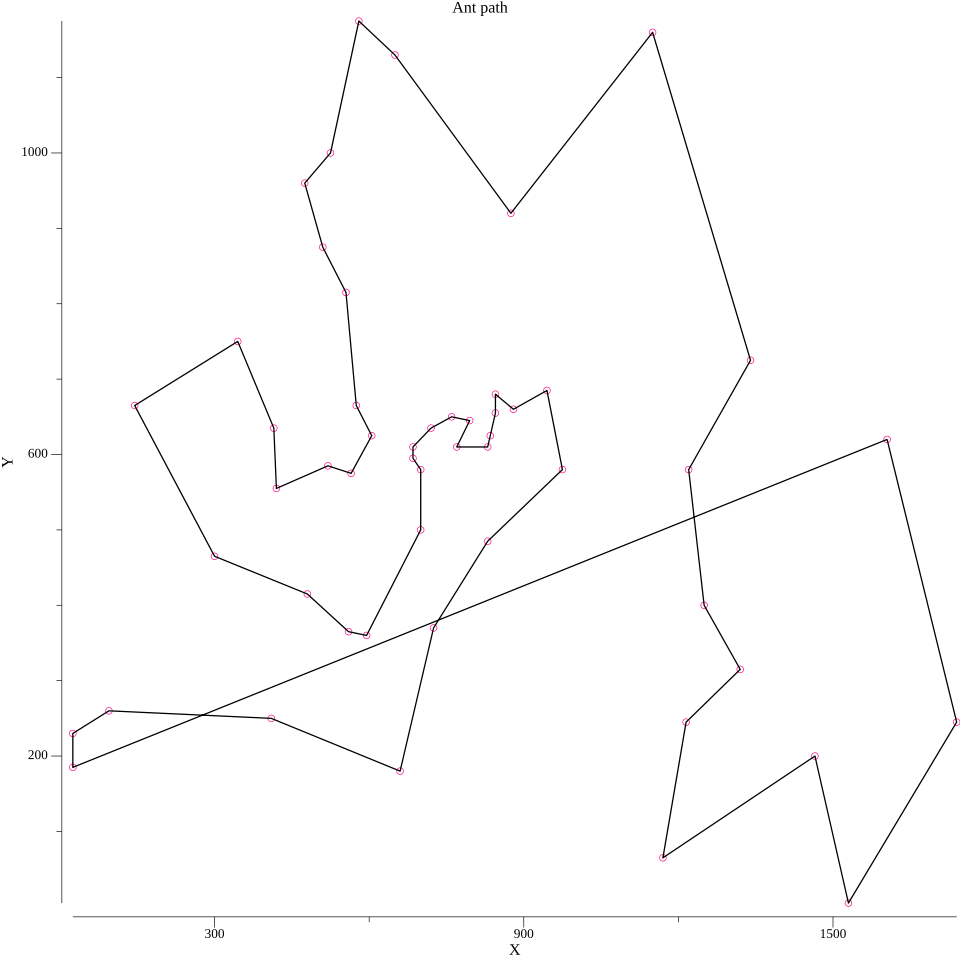
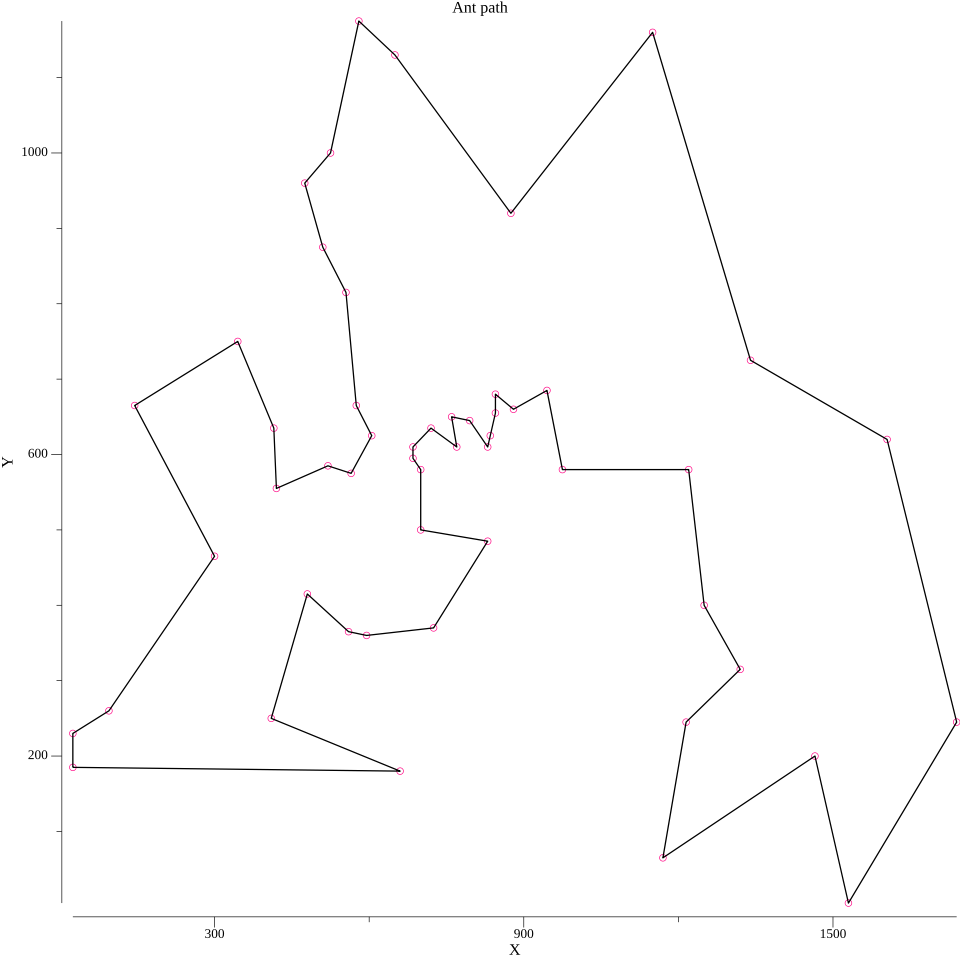
add concurency of ants

diff --git a/aco/aco.go b/aco/aco.go
@@ -4,6 +4,7 @@ import (
 	"log"
 	"math"
 	"math/rand"
+	"sync"
 
 	"github.com/EP-coode/ACO-alghoritm/helpers"
 )
@@ -34,18 +35,20 @@ func (a *Aco) RunAco(iterations int) {
 	l := log.Default()
 
 	for i := 0; i < iterations; i++ {
+		var antWg sync.WaitGroup
+		antWg.Add(a.params.AntsPopulationSize)
+
 		ants := make([]Ant, a.params.AntsPopulationSize)
 
-		// make ants colony run
 		for j := 0; j < a.params.AntsPopulationSize; j++ {
-			startingCity := rand.Intn(len(*a.enviroment.cities))
-			ants[j] = *a.antTraverse(startingCity)
-
-			if a.bestAnt == nil || ants[j].Distance < a.bestAnt.Distance {
-				a.bestAnt = &ants[j]
-				l.Printf("New best Ant { distance: %v }", a.bestAnt.Distance)
-			}
+			go func(j int) {
+				startIndex := rand.Intn(len(*a.enviroment.cities))
+				ants[j] = *a.antTraverse(startIndex)
+				antWg.Done()
+			}(j)
 		}
+
+		antWg.Wait()
 
 		// update pheromone
 		for _, ant := range ants {
@@ -56,6 +59,14 @@ func (a *Aco) RunAco(iterations int) {
 				city2 := ant.Path[k]
 				currentPheromone, _ := a.enviroment.cityPheromones.GetEdge(city1, city2)
 				a.enviroment.cityPheromones.SetEdge(city1, city2, *currentPheromone+pheromoneDelta)
+			}
+
+			if a.bestAnt == nil || ant.Distance < a.bestAnt.Distance {
+				a.bestAnt = &Ant{
+					Path:     ant.Path,
+					Distance: ant.Distance,
+				}
+				l.Printf("New best Ant { distance: %v }", a.bestAnt.Distance)
 			}
 		}
 

diff --git a/main.go b/main.go
@@ -2,6 +2,7 @@ package main
 
 import (
 	"fmt"
+	"log"
 	"math/rand"
 	"os"
 	"path/filepath"
@@ -13,10 +14,17 @@ import (
 
 func main() {
 	rand.Seed(time.Now().Unix())
+	start := time.Now()
+	log.Print("Starting trivial_0")
 	runAco("trivial_0.ttp")
+	log.Print("Starting easy_0")
 	runAco("easy_0.ttp")
+	log.Print("Starting medium_0")
 	runAco("medium_0.ttp")
+	log.Print("Starting hard_0")
 	runAco("hard_0.ttp")
+	elapsed := time.Since(start)
+	log.Printf("Execution took %s", elapsed)
 }
 
 func runAco(fileName string) {
@@ -26,9 +34,9 @@ func runAco(fileName string) {
 	acoParams := aco.AcoParams{
 		Alpha:              1,
 		Beta:               1,
-		Q:                  1,
+		Q:                  1000,
 		DegradationFactor:  0.1,
-		AntsPopulationSize: 20,
+		AntsPopulationSize: 10,
 	}
 
 	solver := aco.NewAco(acoParams, cities)
